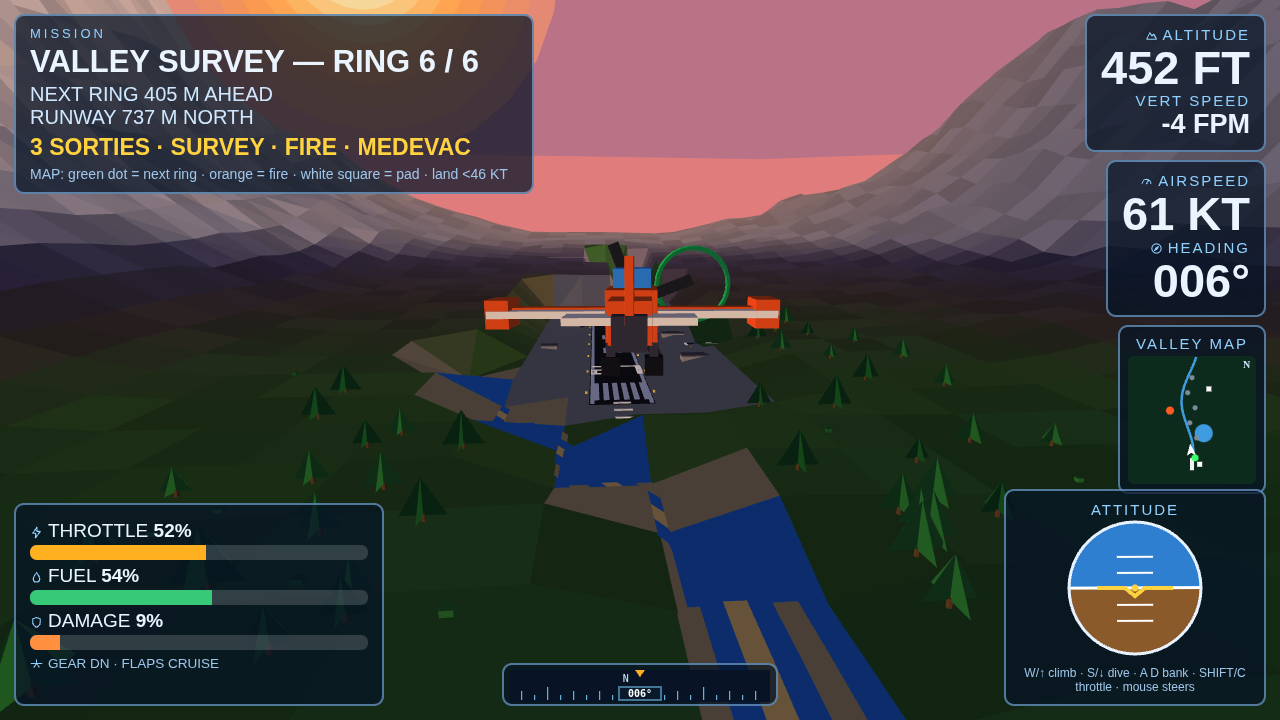
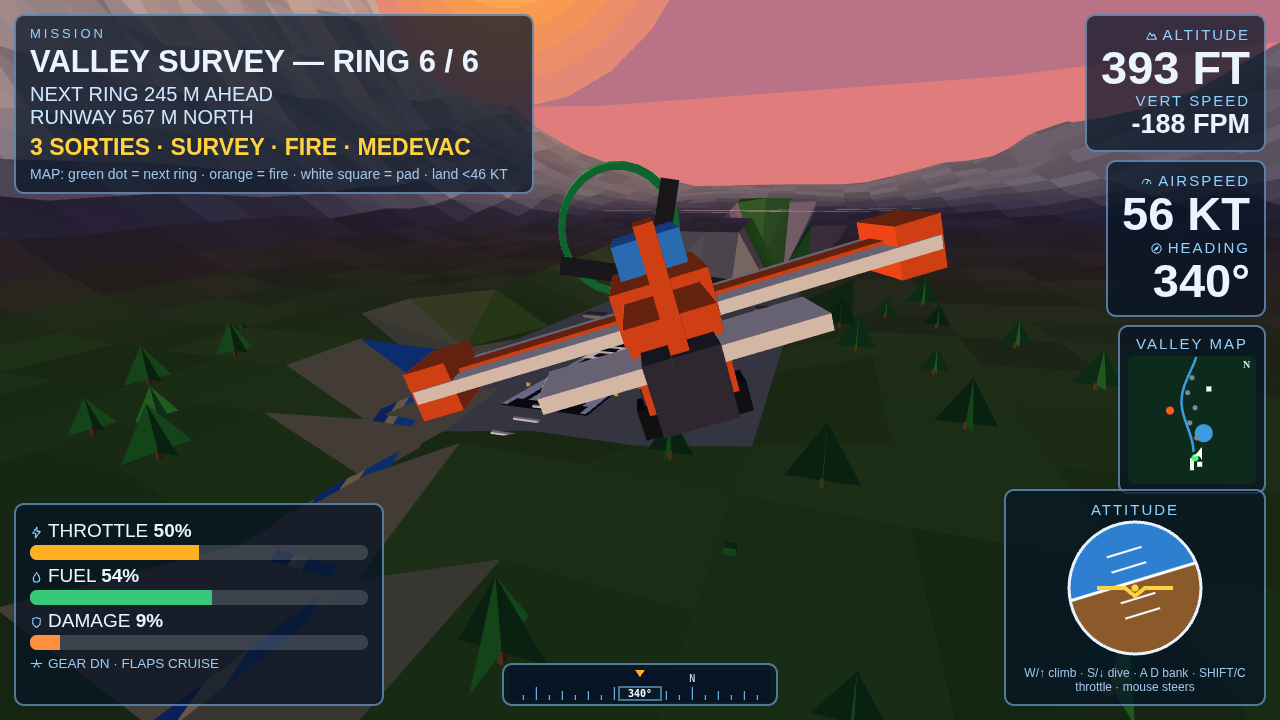
v5: the cover changes angle and the river gains depth — the survey final is reposed front-quarter, banked toward the camera with the last ring around its propeller (the angle the user picked from three rendered candidates), and the river is rebuilt as three shaded lanes with a per-segment shimmer an

diff --git a/game/terrain.js b/game/terrain.js
@@ -75,9 +75,13 @@ const Terrain = (() => {
   }
   function colorAt(x,z,h,seedKey){
     const rd=Math.abs(x-riverX(z));
-    if (z>-5250 && rd<20 && Math.abs(x)<340 && h<4) return [0.12,0.42,0.80];       // river water
-    if (z>-5250 && rd<42 && Math.abs(x)<340 && h<6) return [0.72,0.60,0.40];       // inner bank
-    if (z>-5250 && rd<58 && Math.abs(x)<340 && h<8) return [0.78,0.66,0.44];       // outer bank
+    // v5: the painted water band is much narrower — the ribbon mesh below
+    // is the river; wide blue terrain faces read as angular shards in the
+    // foreground. The banks soften toward olive so the sand meets the
+    // grass without a hard stripe.
+    if (z>-5250 && rd<11 && Math.abs(x)<340 && h<4) return [0.11,0.40,0.78];       // river water (under the ribbon)
+    if (z>-5250 && rd<34 && Math.abs(x)<340 && h<6) return [0.66,0.57,0.40];       // inner bank
+    if (z>-5250 && rd<52 && Math.abs(x)<340 && h<8) return [0.55,0.52,0.36];       // outer bank, olive-sand
     const lake=((x-230)/190)**2+((z+3750)/230)**2;
     if (lake<0.82 && h<4) return [0.12,0.44,0.82];                                   // lake water
     if (lake<1.15 && h<8) return [0.78,0.66,0.44];                                   // lake shore
@@ -97,18 +101,24 @@ const Terrain = (() => {
     // The river is a ribbon mesh that follows the curve, bank under water, so
     // it reads as a winding river instead of painted squares.
     for(let z=300; z>-5250; z-=40){ const cx=riverX(z), cx2=riverX(z-40);
-      const bank=[0.72,0.60,0.40], water=[0.12,0.42,0.80], wy=2.6;
+      const bank=[0.66,0.56,0.39], wy=2.6;
       b.quad([cx-26,wy-0.5,z],[cx2-26,wy-0.5,z-40],[cx2+26,wy-0.5,z-40],[cx+26,wy-0.5,z],bank);
+      // v5 water: three lanes across the ribbon — deep on the shaded west
+      // side, bright on the east — with a per-segment brightness jitter so
+      // the surface shimmers instead of reading as one flat blue strip.
+      const j = 0.90 + hash(Math.round(z/40), 3)*0.20;
+      const deep=[0.09*j,0.32*j,0.68*j], mid=[0.13*j,0.46*j,0.86*j], lite=[0.17*j,0.53*j,0.93*j];
       if (z<=-4360){
-        // Sun glint on the foreground reach, built as the water's own
-        // middle lane (same plane, adjacent, never overlapping): a raised
-        // overlay lane drifted off the water wherever the river bends
-        // sharply and striped the bank instead (round 4 fix).
-        b.quad([cx-15,wy,z],[cx2-15,wy,z-40],[cx2-5,wy,z-40],[cx-5,wy,z],water);
-        b.quad([cx-5,wy,z],[cx2-5,wy,z-40],[cx2+5,wy,z-40],[cx+5,wy,z],[1.0,0.78,0.42]);
-        b.quad([cx+5,wy,z],[cx2+5,wy,z-40],[cx2+15,wy,z-40],[cx+15,wy,z],water);
+        // Foreground reach: the sun's reflection is a narrow gold lane on
+        // the western third (the sun sits north-west), not a wide stripe
+        // down the middle.
+        b.quad([cx-15,wy,z],[cx2-15,wy,z-40],[cx2-6,wy,z-40],[cx-6,wy,z],deep);
+        b.quad([cx-6,wy,z],[cx2-6,wy,z-40],[cx2+1,wy,z-40],[cx+1,wy,z],[1.0,0.82,0.52]);
+        b.quad([cx+1,wy,z],[cx2+1,wy,z-40],[cx2+15,wy,z-40],[cx+15,wy,z],mid);
       } else {
-        b.quad([cx-15,wy,z],[cx2-15,wy,z-40],[cx2+15,wy,z-40],[cx+15,wy,z],water);
+        b.quad([cx-15,wy,z],[cx2-15,wy,z-40],[cx2-5,wy,z-40],[cx-5,wy,z],deep);
+        b.quad([cx-5,wy,z],[cx2-5,wy,z-40],[cx2+5,wy,z-40],[cx+5,wy,z],mid);
+        b.quad([cx+5,wy,z],[cx2+5,wy,z-40],[cx2+15,wy,z-40],[cx+15,wy,z],lite);
       }
     }
     // The far reach, beyond the runway's far end (v2: wider and a brighter

diff --git a/game/main.js b/game/main.js
@@ -171,18 +171,19 @@ function frame(){
 // ---- demo / seed presets for deterministic screenshots ----
 function applyPreset(name){
   if (name==='cover'||name==='runway'||name==='results'||name==='title') Missions.select('survey');
-  if (name==='cover'){ plane.pos=[-24,138,-4620]; plane.heading=0.02; plane.pitch=-0.02; plane.roll=0.22; plane.speed=58; plane.throttle=0.52;
+  if (name==='cover'){ plane.pos=[150,120,-4830]; plane.heading=-0.38; plane.pitch=-0.05; plane.roll=0.38; plane.speed=56; plane.throttle=0.50;
     for(let i=0;i<5;i++) Missions.rings[i].passed=true; Missions.state.ringsPassed=5;
     Fuel.set(54); Damage.set(9); screen='fly';
     // Poster treatment: closer chase camera (bigger plane), enlarged HUD
     // type, and a one-line callout that names all three sortie systems.
-    // v4 pose: lower and west of the old centreline shot, banked toward the
-    // last ring — the plane sits big in the left third, the green ring is
-    // clear of the wing on the right, and the runway, farmstead and river
-    // fill the frame ahead. The shot recipe steps only a few ticks, before
-    // the flight model settles the bank out (the medevac recipe's trick).
+    // v5 pose (the angle the user picked from three rendered candidates):
+    // a front-quarter view, banked toward the camera — the plane fills the
+    // frame nose-on with the last ring around its propeller and the sun
+    // over its shoulder, the medevac frame's trick applied to the survey
+    // sortie. The shot recipe steps only a couple of ticks, before the
+    // flight model settles the bank out.
     document.body.classList.add('poster');
-    Camera.setDist(5.2);
+    Camera.setDist(20);
     window.__flightPoster='3 SORTIES · SURVEY · FIRE · MEDEVAC'; }
   else if (name==='runway'){ plane.pos=[6,36,-4995]; plane.heading=-0.03; plane.pitch=-0.06; plane.speed=47; plane.throttle=0.30;
     for(const r of Missions.rings) r.passed=true; Missions.state.ringsPassed=6; Fuel.set(38); Damage.set(18); screen='fly'; }
